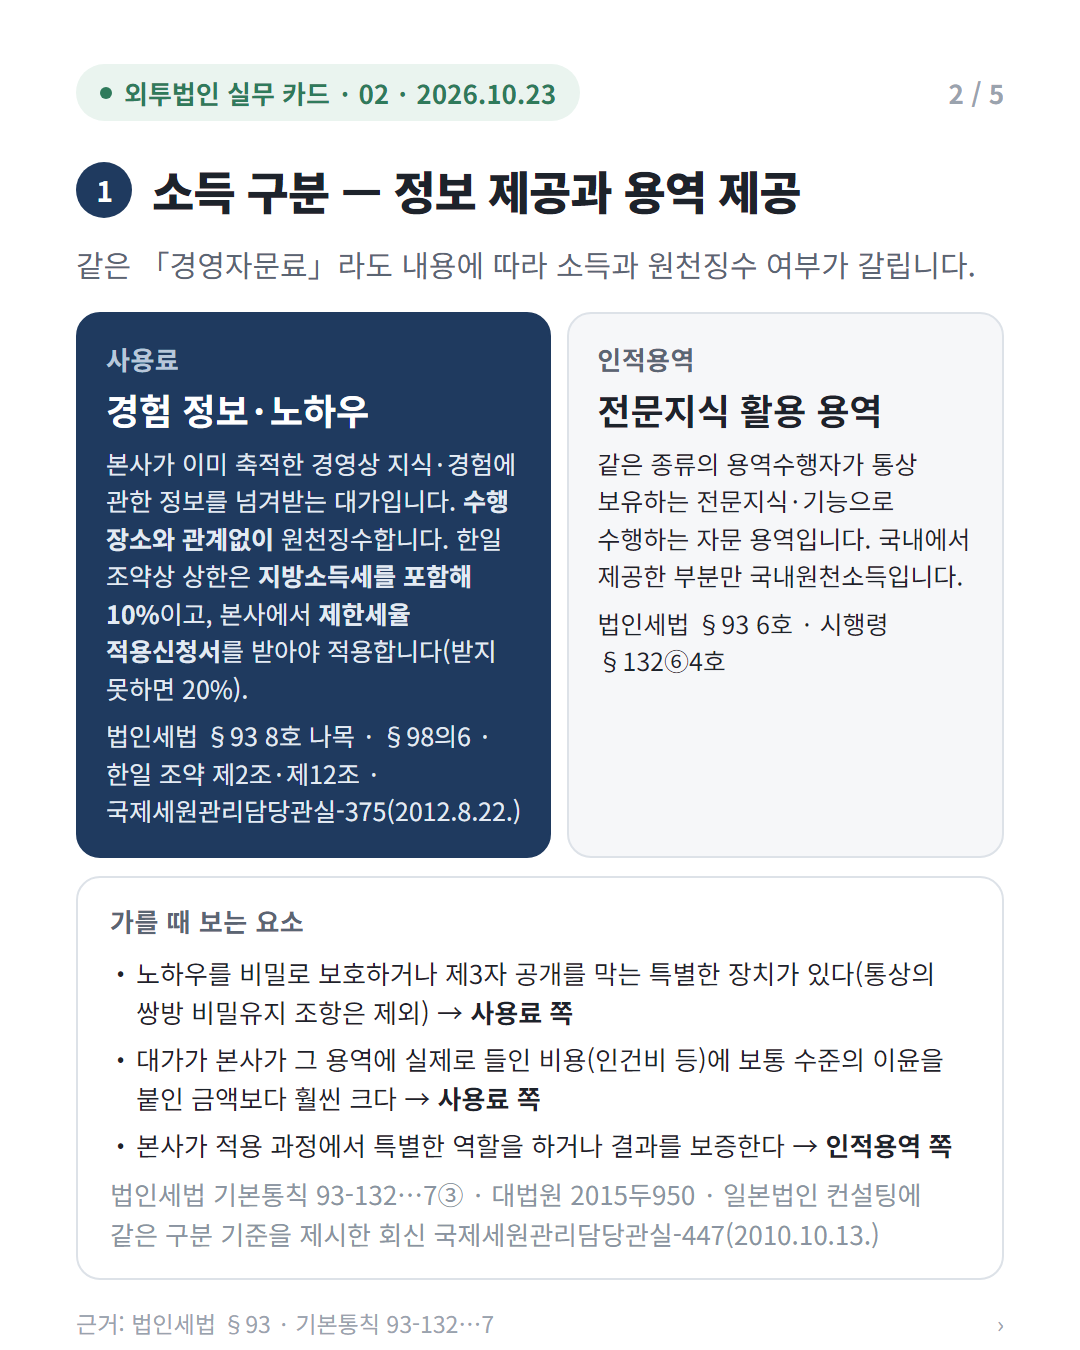
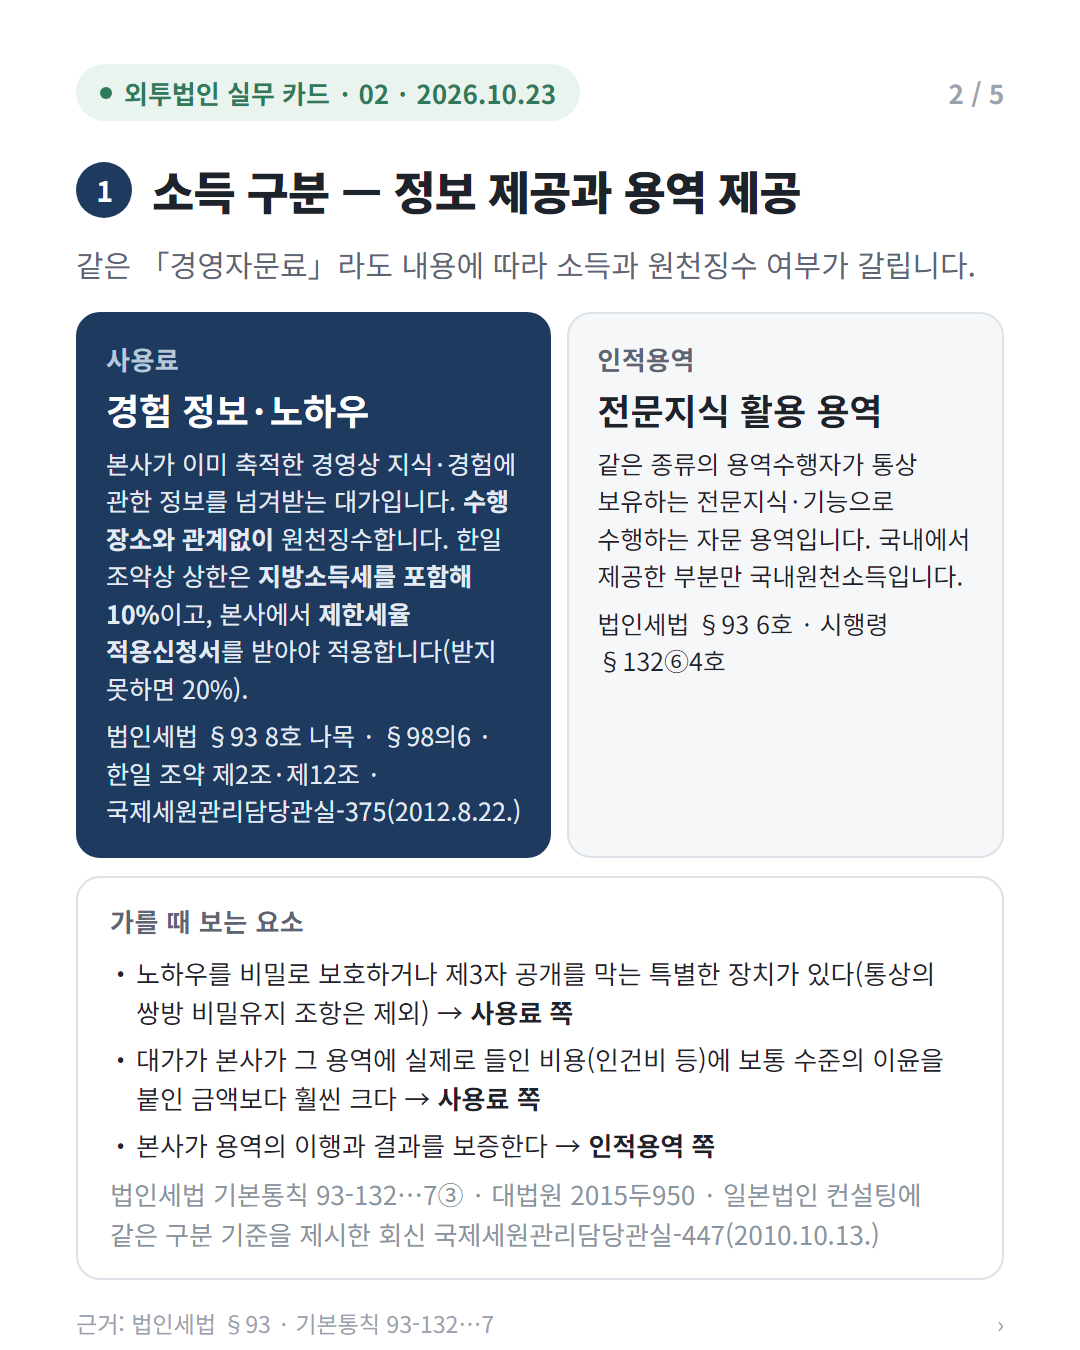
카드 02 2장 판단 요소 셋째 줄 수정(특별한 역할 → 용역의 이행과 결과 보증, 카드 07과 같은 기준)

Changed region(s): [[0.1833, 0.84, 0.7333, 0.8711], [0.7639, 0.84, 0.8861, 0.8711]]

diff --git a/index.html b/index.html
@@ -4,7 +4,7 @@
 <meta name="robots" content="noindex,nofollow">
 <title>외투법인 실무 카드</title>
 <meta property="og:type" content="website"><meta property="og:title" content="외투법인 실무 카드">
-<meta property="og:description" content="외투법인 실무에서 판단이 필요한 장면을 매주 화·금 한 장씩, 근거와 함께 정리합니다."><meta property="og:image" content="https://mkang4936.github.io/work-cards/c/h01/1.png"><meta property="og:url" content="https://mkang4936.github.io/work-cards/">
+<meta property="og:description" content="외투법인 실무에서 판단이 필요한 장면을 매주 화·금 한 장씩, 근거와 함께 정리합니다."><meta property="og:image" content="https://mkang4936.github.io/work-cards/c/04/1.png"><meta property="og:url" content="https://mkang4936.github.io/work-cards/">
 <style>
 :root{--navy:#1f3a5f;--navy-soft:#e9eef5;--ink:#1d232b;--gray:#5b6573;--line:#dde2e8;--bg-soft:#f6f7f9;--ok:#2f7a5b}
 *{box-sizing:border-box;margin:0;padding:0}

diff --git a/원본/02/카드.html b/원본/02/카드.html
@@ -204,7 +204,7 @@
     <ul class="ul">
       <li>노하우를 비밀로 보호하거나 제3자 공개를 막는 특별한 장치가 있다(통상의 쌍방 비밀유지 조항은 제외) → <b class="nb">사용료 쪽</b></li>
       <li>대가가 본사가 그 용역에 실제로 들인 비용(인건비 등)에 보통 수준의 이윤을 붙인 금액보다 훨씬 크다 → <b class="nb">사용료 쪽</b></li>
-      <li>본사가 적용 과정에서 특별한 역할을 하거나 결과를 보증한다 → <b class="nb">인적용역 쪽</b></li>
+      <li>본사가 용역의 이행과 결과를 보증한다 → <b class="nb">인적용역 쪽</b></li>
     </ul>
     <p class="ref">법인세법 기본통칙 93-132…7③ · 대법원 2015두950 · 일본법인 컨설팅에 같은 구분 기준을 제시한 회신 <span class="nb">국제세원관리담당관실-447(2010.10.13.)</span></p>
   </div>
